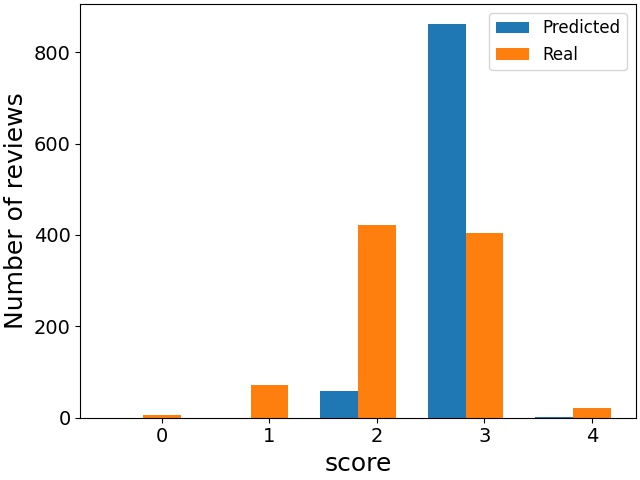
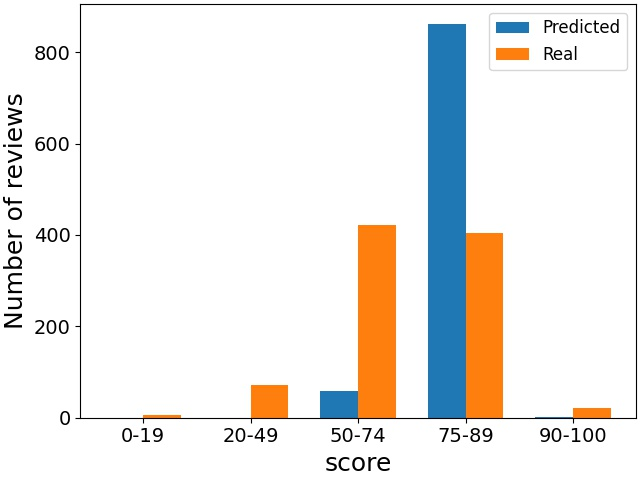
Knn and Input data visualization

diff --git a/visualize_input.py b/visualize_input.py
@@ -14,15 +14,16 @@ plt.rc('legend', fontsize=12)
 plt.rcParams['figure.constrained_layout.use'] = True
 
 
-x, y, names = get_data()
+x, y, _ = get_data()
 
-plt.xlabel('Rating')
+plt.xlabel('Ratings')
 plt.ylabel('Number of reviews')
-distribution = calculate_distribution(y)
+distribution, xticks = calculate_distribution(y)
 bar_range = np.array(range(len(distribution)))
 plt.bar(bar_range - 0.35 / 2, distribution, width=0.35,
         label='Input Data', tick_label=range(len(distribution)))
 
+plt.xticks(bar_range, xticks)
 plt.legend()
 plt.savefig(f'images/input_data_distribution.jpg')
 plt.clf

diff --git a/knn_baseline.py b/knn_baseline.py
@@ -77,8 +77,10 @@ def run(neighbours):
     distribution, xticklables = calculate_distribution(y_test)
     plt.bar(bar_range+0.35/2, distribution, width=0.35,
             label='Real', tick_label=range(len(distribution)))
-
+    
+    plt.xticks(bar_range, xticklables)
     plt.legend()
+
     plt.savefig(f'images/knn_{neighbours}.jpg')
     plt.clf()
 
